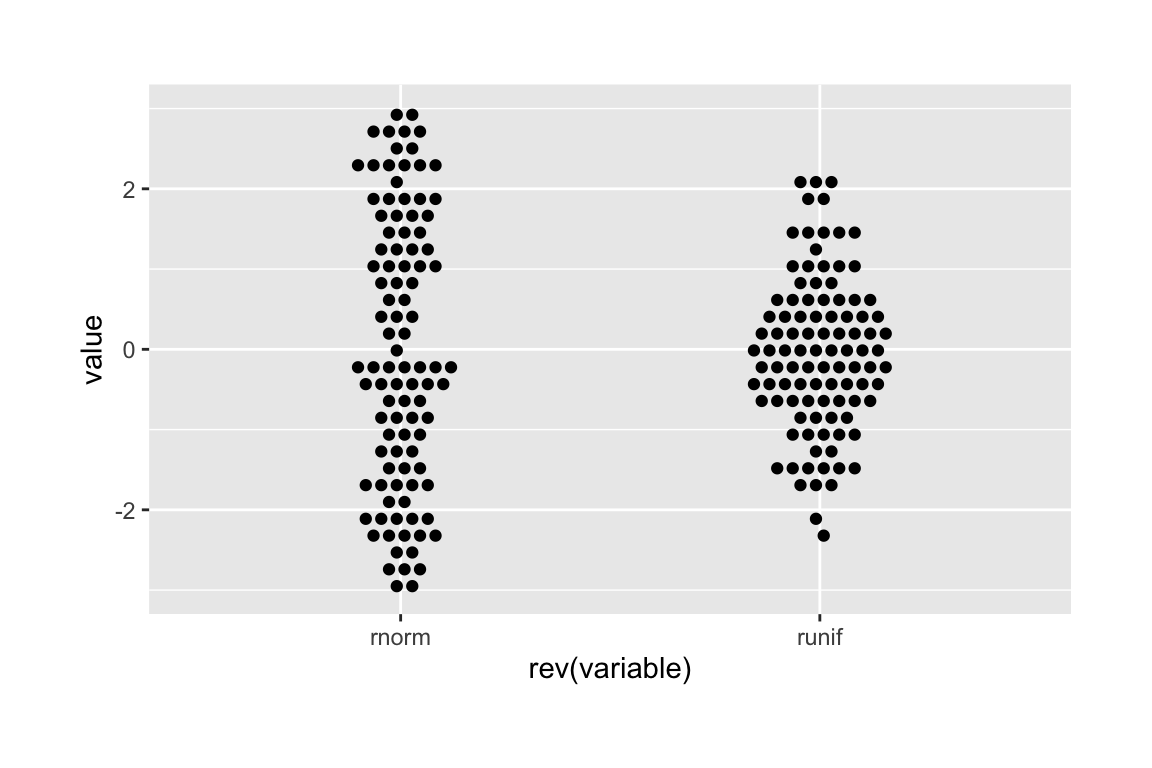
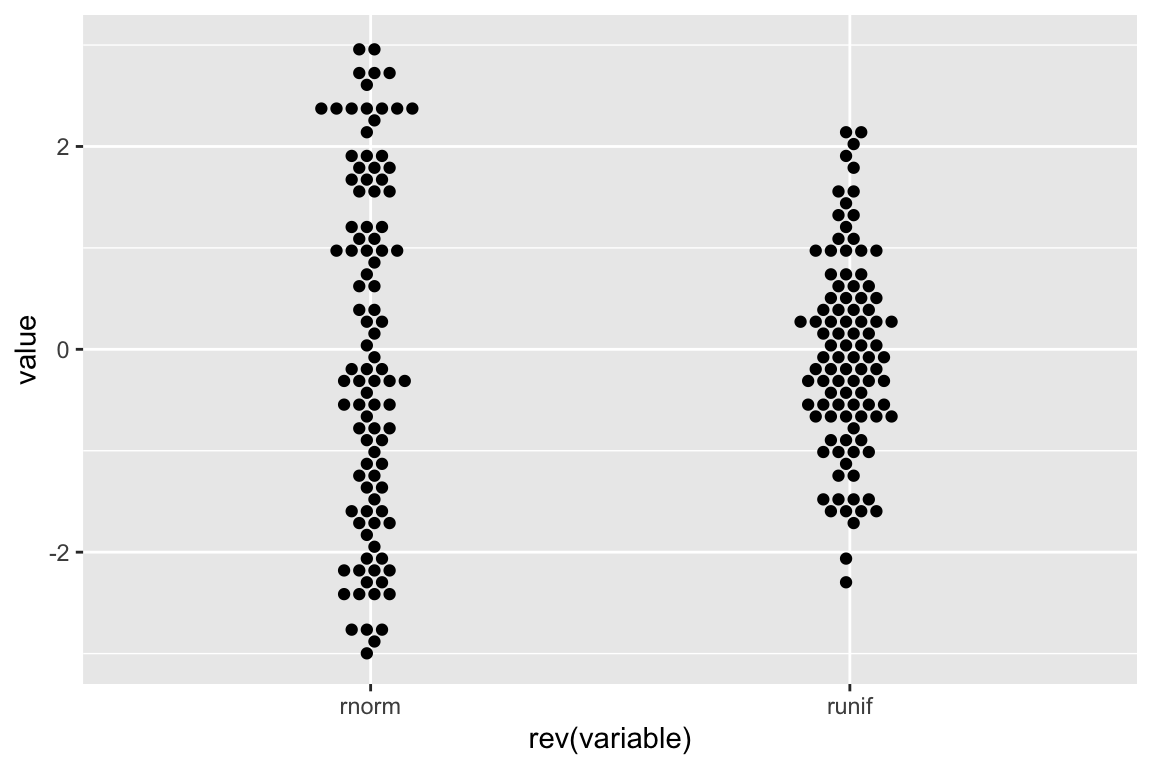
Update README

Changed region(s): [[0.0, 0.0, 1.0, 0.9375], [0.4688, 0.9375, 0.5938, 0.9688]]

diff --git a/README.md b/README.md
@@ -53,10 +53,7 @@ distro2 <- as.data.frame(rev(distro)) %>%
 
  ggplot2::ggplot(distro2, aes(x = rev(variable), y = value)) + 
    geom_beeswarm(method = "hex") + 
-   scale_y_continuous(limits = c(-3, 3)) + 
-   theme(
-     plot.margin = unit(c(0.11, 0.07, 0.11, 0.07), "npc")
-   )
+   scale_y_continuous(limits = c(-3, 3))
 ```
 
 <img src="man/figures/README-ex-2.png" width="576" />
